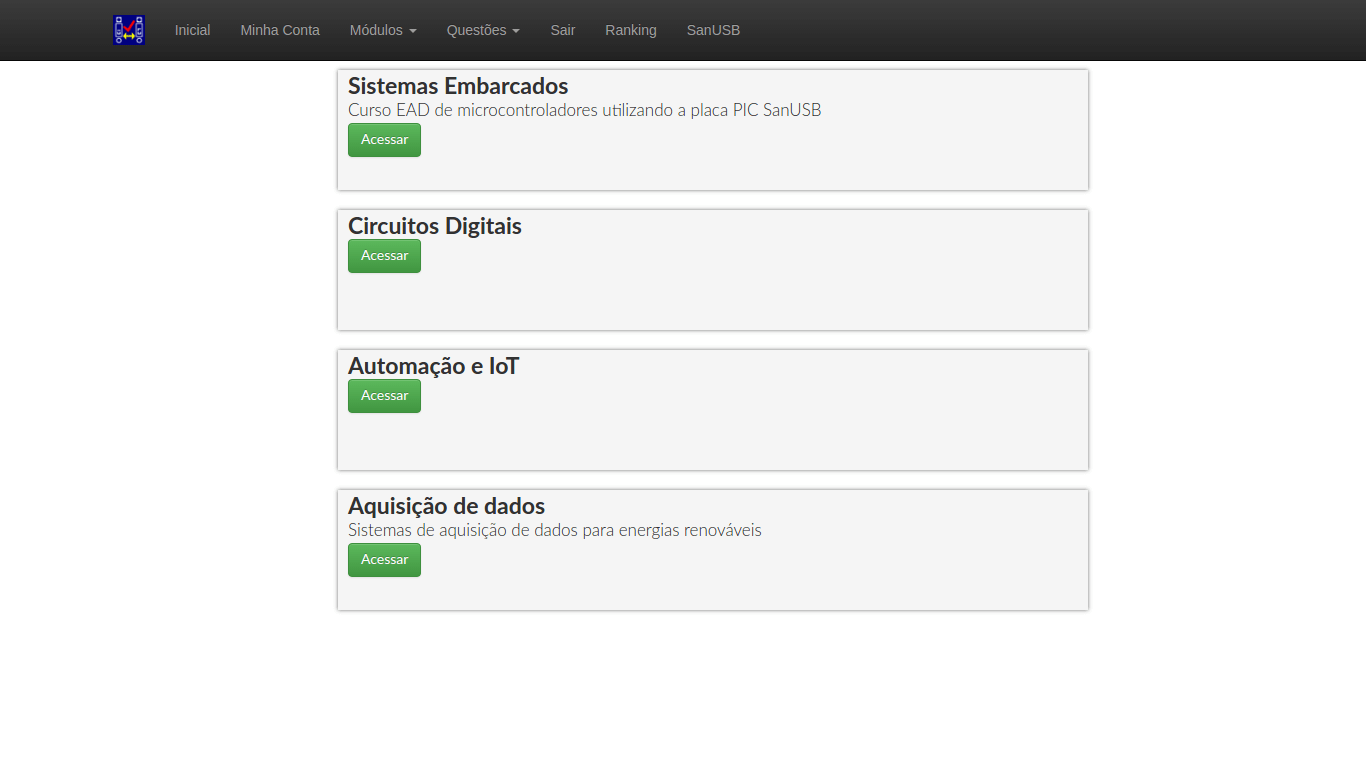
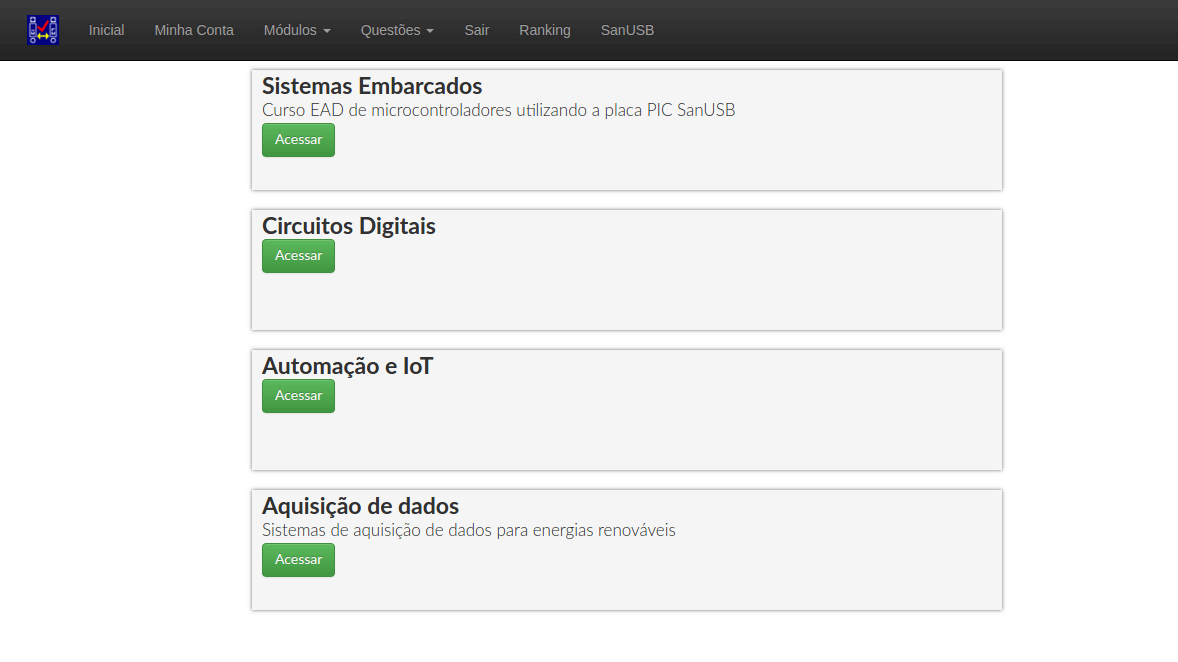
Melhorado fonte e responsividade do site

diff --git a/assets/css/css.css b/assets/css/css.css
@@ -3,7 +3,7 @@
 }
 
 html {
-  font-family: "Segoe UI", "微軟正黑體", "Microsoft JhengHei", "Arial", "新細明體";
+  font-family: 'Open Sans', 'Segoe UI', "微軟正黑體", "Microsoft JhengHei", "Arial", "新細明體", sans-serif;
[1 lines of base64/hex data omitted]
 }
 
@@ -29,7 +29,6 @@ h3 {
 
 section {
   padding-top: 50px;
-  min-height: 100vh;
 }
 
 section, .container-center {
@@ -38,7 +37,7 @@ section, .container-center {
   margin-right: auto;
 }
 
-a:link {
+a:link, a:visited {
     color: #00a8ff;
     text-decoration: none;
 }
@@ -47,6 +46,10 @@ a:hover {
     color: #008fd9;
     text-decoration: none;
     cursor: pointer;
+}
+
+img[src$=".svg"] {
+  width: 100%;
 }
 
 .hide {
@@ -71,16 +74,28 @@ h1 {
   padding-left: 15px;
 }
 
-table {
-  width: 400px;
-  margin: 0 auto;
-  text-align: center;
+@media all and (max-width: 768px) {
+    h1 {
+        display: none;
+    }
 }
 
+table {
+  font-size: 1.2em;
+  max-width: 500px;
+  margin: 0 auto;
+  text-align: center;
+  padding-bottom: 15px;
+}
+
+table thead {
+  font-weight: bold;
+}
+table thead tr td {
+  border-bottom: 1px #000 solid;
+}
 table tr td {
-    font-size: 15px;
     padding: 3px 5px;
-    border-bottom: 1px #000 solid;
 }
 
 table span {
@@ -145,6 +160,12 @@ table span.pin_right {
   z-index: 3000;
 }
 
+@media all and (max-width: 768px) {
+    #header {
+        display: none;
+    }
+}
+
 #header a {
   text-decoration: none;
   color: inherit;
@@ -174,13 +195,14 @@ table span.pin_right {
 
 #first-impression {
   width: 100%;
+  min-height: 100vh;
   max-width: none;
 
   background: url('../img/capa.jpg');
   background-attachment: fixed;
   background-position: center;
   background-repeat: no-repeat;
-  background-size: 100%;
+  background-size: cover;
 }
 
 #first-impression h2 {
@@ -195,11 +217,23 @@ table span.pin_right {
 }
 
 #first-impression p {
+  position: absolute;
+  bottom: 0;
   font-size: 2.5em;
   margin: 0;
-  margin-top: 6em;
+  /* margin-top: 6em; */
   color: #4c4c4c;
-  text-shadow: 1px 1px white, -1px -1px #444;
+  text-shadow: 2px 2px rgba(255,255,255,.8);
+  margin: 1em;
+  display: block;
+  /* background-color: rgba(0,0,0, .05); */
+  padding: .5em;
+}
+
+@media all and (max-width: 768px) {
+    #first-impression p {
+        font-size: 2em;
+    }
 }
 
 #overview {
@@ -254,7 +288,7 @@ table span.pin_right {
 #libraries {
   background-image: url('../img/code.png');
   background-size: 40%;
-  background-position: right bottom;
+  background-position: right center;
   background-repeat: no-repeat;
   max-width: none;
 }
@@ -282,8 +316,10 @@ table span.pin_right {
 
   border-radius: 5px;
 }
+
 #research {
-  padding: 5em 2em;
+  margin-top: 4em;
+  padding: 1em 2em 5em 2em;
   background-color: white;
 }
 

diff --git a/index.html b/index.html
@@ -7,6 +7,8 @@
     <meta name="viewport" content="width=device-width, initial-scale=1" />
 
     <link type="text/css" rel="stylesheet" href="assets/css/css.css" />
+    <meta name="theme-color" content="#27ae60">
+    <!--<link href="https://fonts.googleapis.com/css?family=Open+Sans:300,400" rel="stylesheet" />-->
   </head>
 
   <body>
@@ -42,13 +44,16 @@
       </div>
       <h3>Pinout</h3>
 
-      <table cellspacing="0" cellpadding="0" border="0" width="100%">
-            <tbody><tr>
+        <table cellspacing="0" cellpadding="0" border="0" width="100%">
+          <thead>
+            <tr>
               <td>Pinout</td>
               <td>Physical Pin<br>
               Number</td>
               <td>Pinout</td>
             </tr>
+          </thead>
+          <tbody>
             <tr>
               <td>pin_a0</td>
               <td><span class="pin_left pin_y">1</span><span class="pin_right">2</span></td>
@@ -135,10 +140,10 @@
                   Windows
                 </a>
               </li>
-              <li>
+              <!--<li>
                 <img src="assets/img/download/apple.svg">
                 Mac
-              </li>
+              </li>-->
             </ul>
           </li>
           <li>
@@ -156,8 +161,10 @@
       <h2>Aprenda</h2>
       <ul class="row">
         <li class="item livro">
-          <img src="assets/img/livro.jpg" />
-          <p>Aplicações práticas de Microcontroladores utilizando Software Livre</p>
+          <a href="https://www.dropbox.com/s/4zjiz8h6337w0uu/Apostila_MPLABX.pdf?dl=0">
+            <img src="assets/img/livro.jpg" alt="Capa do livro Aplicações práticas de Microcontroladores utilizando Software Livre. Placa SanUSB com um shield bluetooth está exposta ao centro conectada a um cabo USB" />
+            <p>Apostila baseada em "Aplicações práticas de Microcontroladores utilizando Software Livre"</p>
+          </a>
         </li>
         <li class="item iotead">
           <a href="http://sanusb.tk/iotead">
@@ -170,14 +177,16 @@
 
     <section id="research">
       <h2>Publicações</h2>
-      <p>Conheça os trabalhos publicados</p>
+      <p>Conheça alguns dos trabalhos relacionados ao <b>SanUSB</b></p>
       <ul>
         <li>
           <b>Jucá, S. C. S</b>; Carvalho, P. C. M. de; Brito, F, T.
           <a href="http://pepsic.bvsalud.org/scielo.php?script=sci_arttext&pid=S1806-58212009000300011">"SanUSB: software educacional para o ensino da tecnologia de microcontroladores"</a>
           Ciências & Cognição 14.3 (2009): 134-144.
         </li>
-        <li></li>
+        <li>
+          <b>Jucá, S. C. S</b>; PEREIRA, R. I. S. . Aplicações Práticas de Microcontroladores utilizando Software Livre. 1. ed. Fortaleza: IFCE, 2017. 200p.
+        </li>
       </ul>
     </section>
   </main>
@@ -187,5 +196,14 @@
       <a href="http://sanusb.org"><img src="assets/img/logo-grupo-sanusb.png" /> Grupo SanUSB </a>
     </div>
   </footer>
+
+  <script src="https://ajax.googleapis.com/ajax/libs/webfont/1.6.26/webfont.js"></script>
+  <script>
+   WebFont.load({
+      google: {
+        families: ['Open Sans:300,400']
+      }
+    });
+  </script>
 </body>
 </html>
